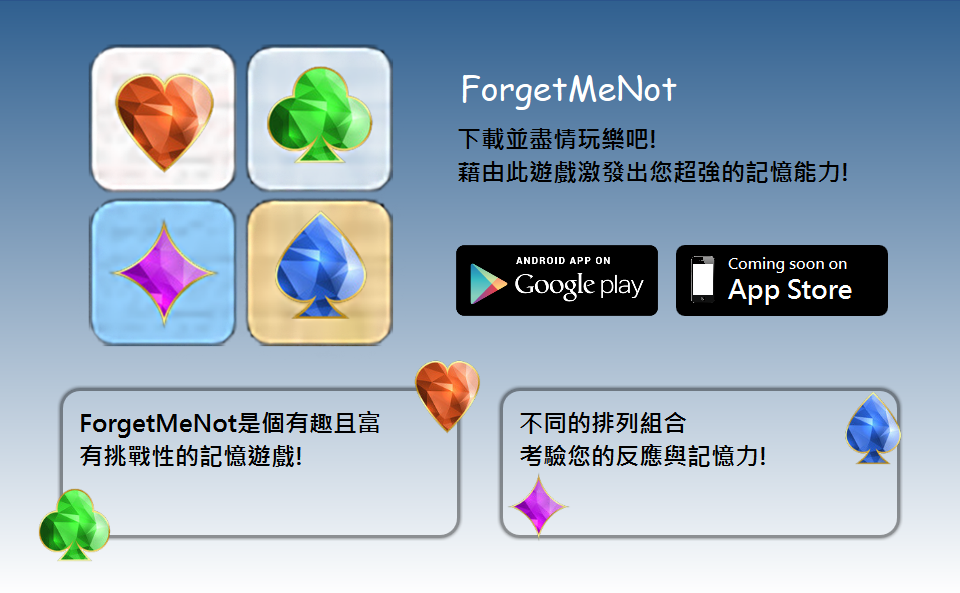
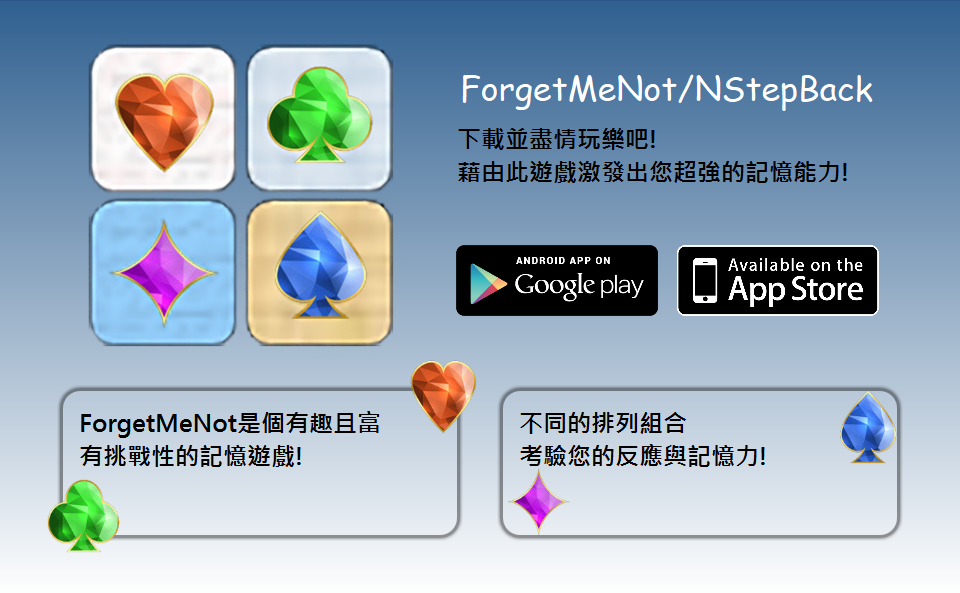
ForgetMeNot_ios_down

diff --git a/en/ForgetMeNot.html b/en/ForgetMeNot.html
@@ -45,12 +45,10 @@
     </ul>
   </div>
 
-  <div class="ad"><img src="images/ForgetMeNot_en.png" width="960" height="593" usemap="ForgetMeNotMap">
+  <div class="ad"><img src="images/describeForgetMeNot.png" width="960" height="593" usemap="ForgetMeNotMap">
     <map name="ForgetMeNotMap">
         <area shape="rect" coords="450,240,665,320" target="_blank" href="https://play.google.com/store/apps/details?id=com.forgetmenotNTL">
-        <!--
-		<area shape="rect" coords="675,240,890,320" target="_blank" href="https://itunes.apple.com/en/app/tosort/id730925703?mt=8">
-     	-->
+        <area shape="rect" coords="675,240,890,320" target="_blank" href="https://itunes.apple.com/us/app/nstepback/id910104081?l=zh&ls=1&mt=8">
 	 </map>
   </div>
 

diff --git a/tw/ForgetMeNot.html b/tw/ForgetMeNot.html
@@ -49,9 +49,7 @@
   <div class="ad"><img src="images/describeForgetMeNot.png" width="960" height="593" usemap="ForgetMeNotMap">
     <map name="ForgetMeNotMap">
         <area shape="rect" coords="450,240,665,320" target="_blank" href="https://play.google.com/store/apps/details?id=com.forgetmenotNTL">
-        <!--
-		<area shape="rect" coords="675,240,890,320" target="_blank" href="">
-     	-->
+        <area shape="rect" coords="675,240,890,320" target="_blank" href="https://itunes.apple.com/us/app/nstepback/id910104081?l=zh&ls=1&mt=8">
 	 </map>
   </div>
 
